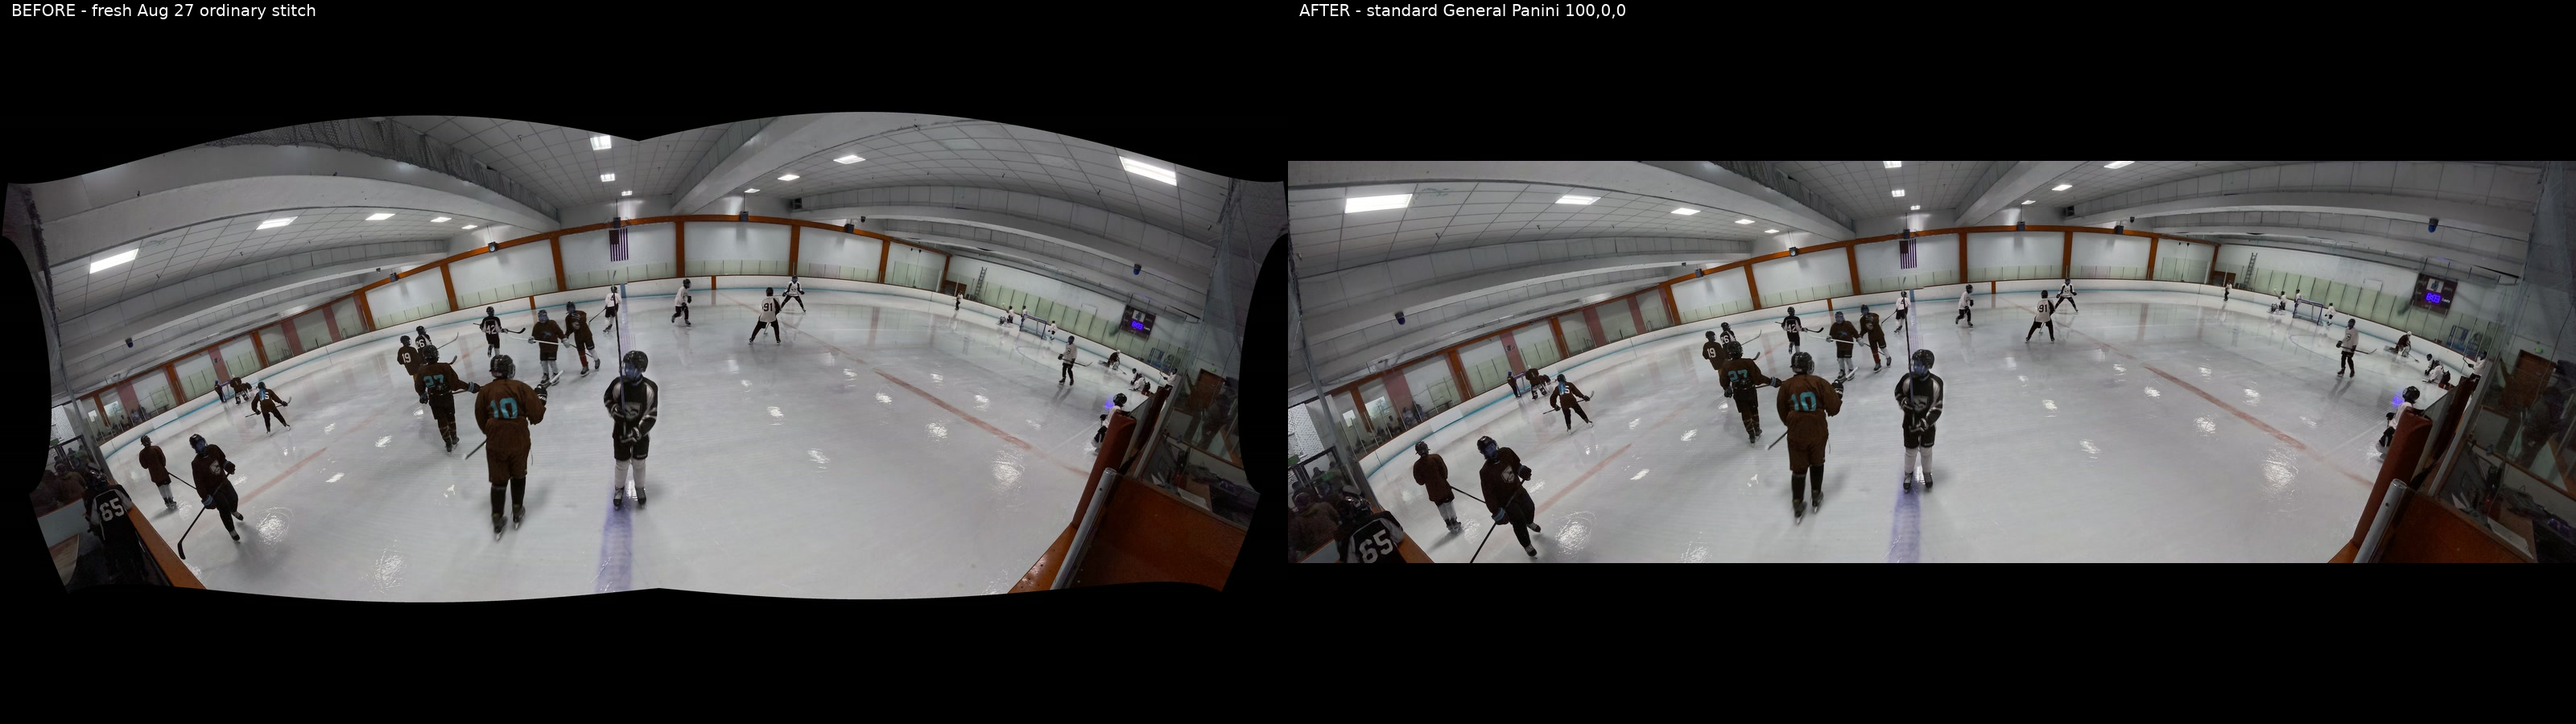
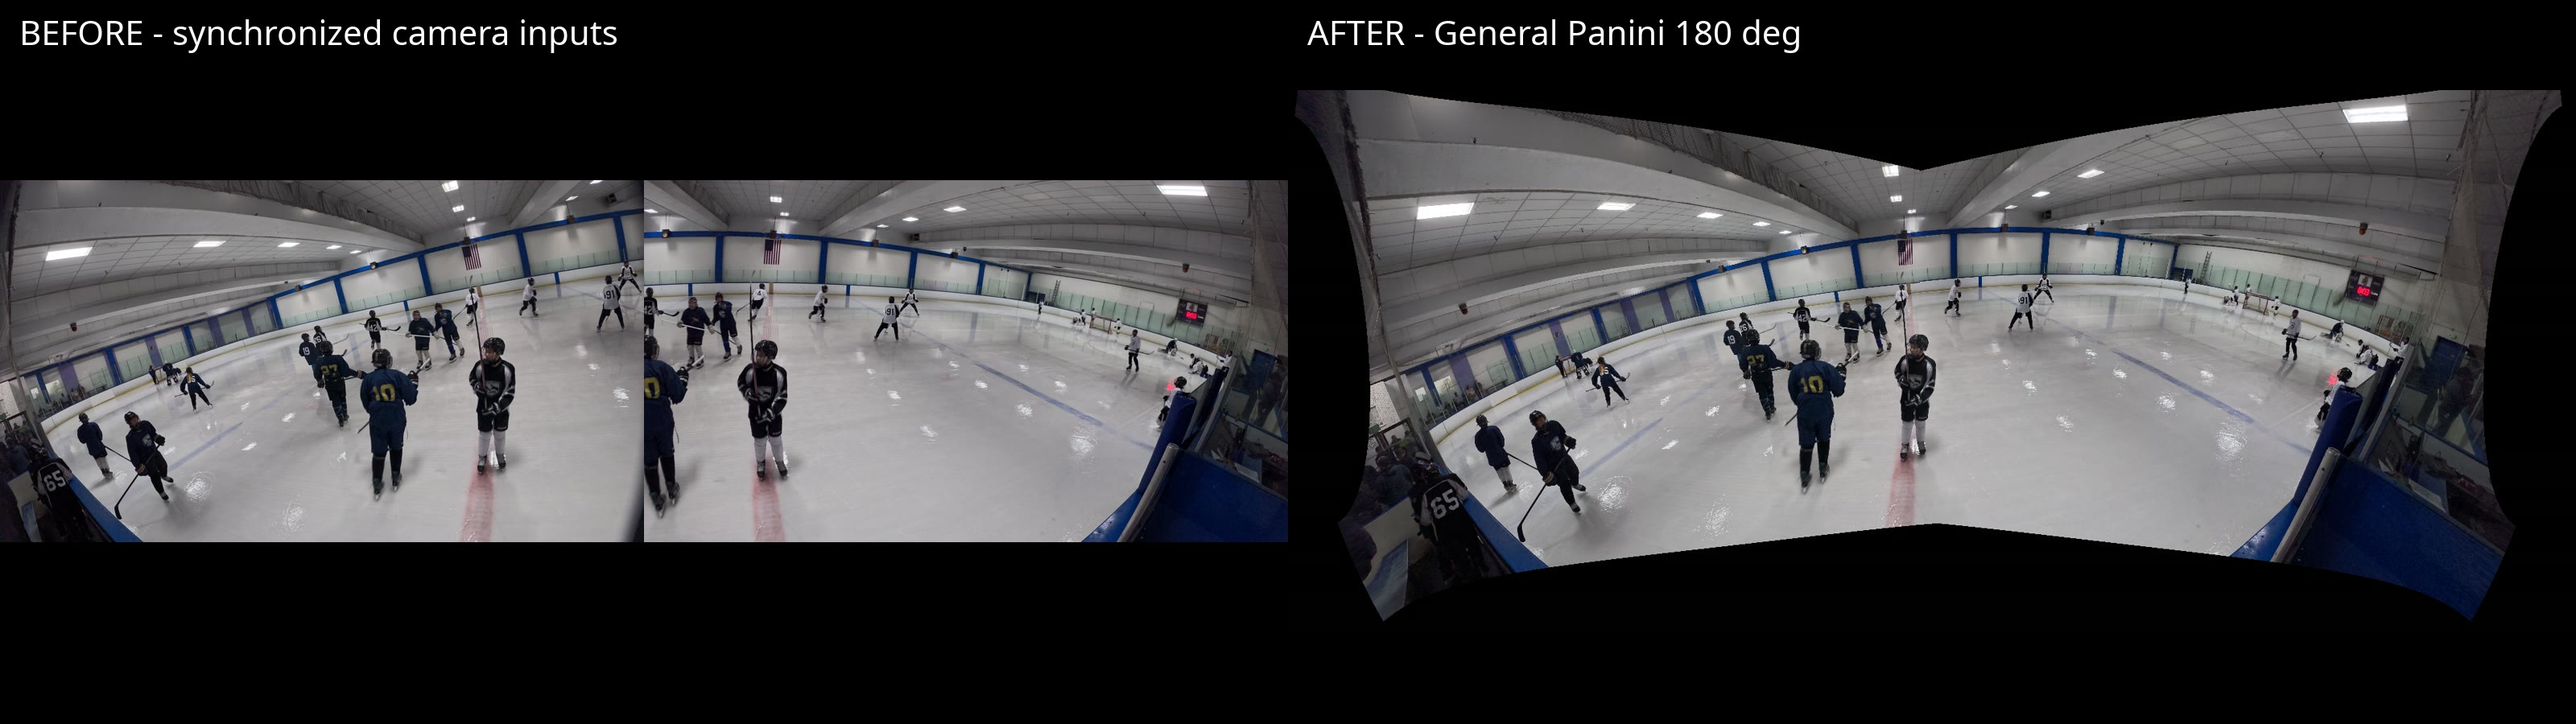
docs(stitching): refresh live projection samples

diff --git a/docs/general-panini-samples.md b/docs/general-panini-samples.md
@@ -1,22 +1,24 @@
 # General Panini stitching samples
 
-These samples were rendered from private copies of each game's current PTO and calibration images. The game
-directories were not modified. “Before” reruns `nona` and `enblend` from the current optimized PTO; “after” uses
-Hugin General Panini (`f19`, parameters `100,0,0`) with automatic field of view, canvas, and valid-image crop before
-rerunning both tools. This is an offline A/B comparison; production calibration selects its projection before one
-selected-projection mapping phase and a single `enblend` pass. Bounds-safety may rerender that same projection at a
-smaller scale, but it never creates an intermediate panorama or starts a second projection/remap stage.
+These samples come from isolated calibration runs. The runner symlinks only read-only input media and calibration
+assets into a temporary game, gives every case a private config/artifact directory, and verifies the source game
+config remains unchanged. Production selects the output projection during its one calibration/remap-generation
+phase; there is no intermediate panorama, second projection, or second remap/stitch stage.
 
 ## `gse-16a`
 
-This sample was restarted and regenerated on August 27, 2026 from the latest modified stitch files. Its source
-fingerprints are:
+This game was restarted from its modified source files and calibrated in eight independent live pipeline runs on
+August 28, 2026. All eight passed. “Before” is the synchronized left/right calibration frame placed side by side;
+“after” is the fixed-180-degree General Panini result with automatic canvas sizing and crop disabled.
+
+Source and fixed-180 evidence fingerprints:
 
 ```text
-e5d8ae0ae70e6e4d22f8ec418c4c18a53b499082c56e773dee54c42828c0361c  hm_project.pto
-163fbe143d65d877a77cd357299b79f9ee43debb2f198093a998414cd55db8bd  autooptimiser_out.pto
-898eb917c70ac5cbc649b326b17997a38d291c797edbacc7520ac4ca8934a40e  left.png
-cb436cd4652951a040571d1598215f8140d0044cc63bf527cbfd8ce190ee55b3  right.png
+b2d7bfc49fa24ee4203fc04f117364d7ab420a0ab3138901130db0b933aaf024  source config.yaml (unchanged after the matrix)
+28d6485a5b8e1a8b1b52af751005509f31fb64982d6d26c4df3cba732c0349e0  synchronized input pair
+0985cfe183b18da7c32328604c3c8e4663dc77c8d630a046821fd6dbf86365d4  fixed-180 generated PTO
+725d8d9eb710d973b99c985e635214abf87cd8785e5fb742a09aa89ebebf2840  fixed-180 version-5 provenance
+dc6c4a182b37e626e99f3b53eec0455de7669dbc2d02c3728a8b7af5f80e6749  fixed-180 stitched sample
 ```
 
 ![gse-16a before and after](images/general-panini/gse-16a-before-after.jpg)
@@ -24,7 +26,36 @@ cb436cd4652951a040571d1598215f8140d0044cc63bf527cbfd8ce190ee55b3  right.png
 - [Larger before image](images/general-panini/gse-16a-before.jpg)
 - [Larger after image](images/general-panini/gse-16a-after.jpg)
 
+### Projection/framing matrix
+
+![gse-16a projection and framing matrix](images/general-panini/gse-16a-projection-matrix.jpg)
+
+| # | Projection and framing | PTO projection | Actual FOV | Canvas | Result |
+| --- | --- | ---: | ---: | ---: | --- |
+| 1 | General Panini, fixed 180°, auto canvas, crop off | `f19` | 180° | 1910×807 | Pass |
+| 2 | General Panini, fixed 185°, auto canvas, crop off | `f19` | 185° | 1820×773 | Pass |
+| 3 | General Panini, auto FOV/canvas, crop off | `f19` | 171° | 1968×747 | Pass |
+| 4 | General Panini, fixed 180°, retained canvas, crop off | `f19` | 180° | 1910×807 | Pass |
+| 5 | General Panini, fixed 180°, auto canvas/crop | `f19` | 180° | 1650×524 | Pass |
+| 6 | General Panini, auto FOV, retained canvas, auto crop | `f19` | 171° | 1786×566 | Pass |
+| 7 | Cylindrical, fixed 180°, auto canvas, crop off | `f1` | 180° | 1956×751 | Pass |
+| 8 | Stereographic, auto FOV/canvas/crop | `f4` | 171° | 1783×531 | Pass |
+
+Full-size outputs:
+
+1. [General Panini fixed 180°](images/general-panini/gse-16a-matrix/01-general-panini-fixed-180.jpg)
+2. [General Panini fixed 185°](images/general-panini/gse-16a-matrix/02-general-panini-fixed-185.jpg)
+3. [General Panini auto FOV](images/general-panini/gse-16a-matrix/03-general-panini-auto-fov.jpg)
+4. [General Panini retained canvas](images/general-panini/gse-16a-matrix/04-general-panini-retained-canvas.jpg)
+5. [General Panini auto crop](images/general-panini/gse-16a-matrix/05-general-panini-auto-crop.jpg)
+6. [General Panini auto FOV, retained canvas, auto crop](images/general-panini/gse-16a-matrix/06-general-panini-auto-fov-retained-auto-crop.jpg)
+7. [Cylindrical fixed 180°](images/general-panini/gse-16a-matrix/07-cylindrical-fixed-180.jpg)
+8. [Stereographic auto FOV/crop](images/general-panini/gse-16a-matrix/08-stereographic-auto-fov-auto-crop.jpg)
+
 ## `sharks-12-1-r4`
+
+This is the earlier offline comparison retained as a historical reference; it was not part of the August 28 live
+`gse-16a` calibration matrix.
 
 Source optimized-PTO fingerprint:
 
